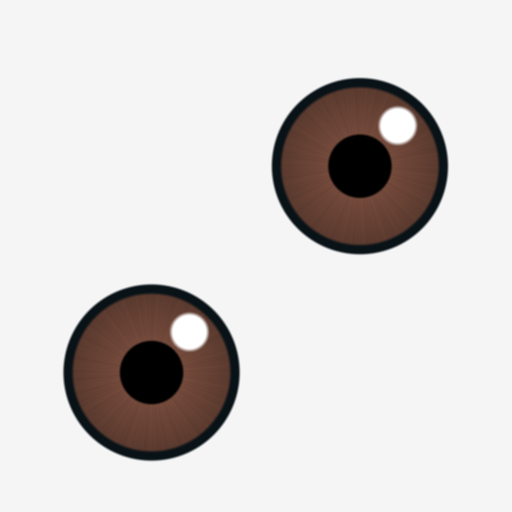
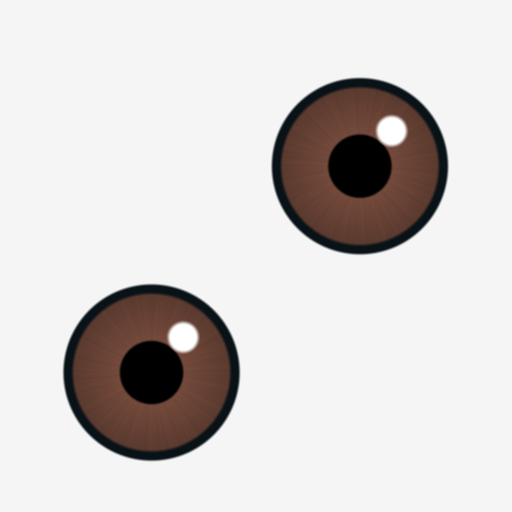
The catchlight as it was: bigger or further out it broke the owner's iris tests
Round 57 committed a red test (the check was piped through tail and its failure hidden):
the catchlight at 0.21 cut the pupil's round edge, and moved further out its white took
the light brown iris past the value that reads orange in the player (0.45 against
0.43). Back to round 56's.

Changed region(s): [[0.7188, 0.1875, 0.8125, 0.3125], [0.3125, 0.5938, 0.4062, 0.6875]]

diff --git a/tools/eye_texture.py b/tools/eye_texture.py
@@ -79,10 +79,10 @@ PUPIL = np.array((0.0, 0.0, 0.0))
 SCLERA = np.array((0.96, 0.96, 0.96))
 # One small clean catchlight up and to one side of the pupil, as every eye of the series the owner chose has (round 20 of the loop,
 # 2026-11-16): a disc in iris radii, at (across, down) from the iris's middle. The iris drawn flat, with almost none of its fibres.
-# Round 56: bigger, and a little further out so it does not cut the pupil's round edge (`tests/test_parle_eye_map.py`).
-CATCHLIGHT = (0.43, -0.46)
-# Round 56, judge B on all four: "brilho 2× maior".
-CATCHLIGHT_RADIUS = 0.21
+# Round 56: judge B asked it twice as big; bigger it cut the pupil's round edge, and further out its white took the brown iris's
+# value past the owner's ceiling (`tests/test_parle_eye_map.py`): it stays as it was.
+CATCHLIGHT = (0.36, -0.4)
+CATCHLIGHT_RADIUS = 0.17
 FIBRES = 0.04
 
 
